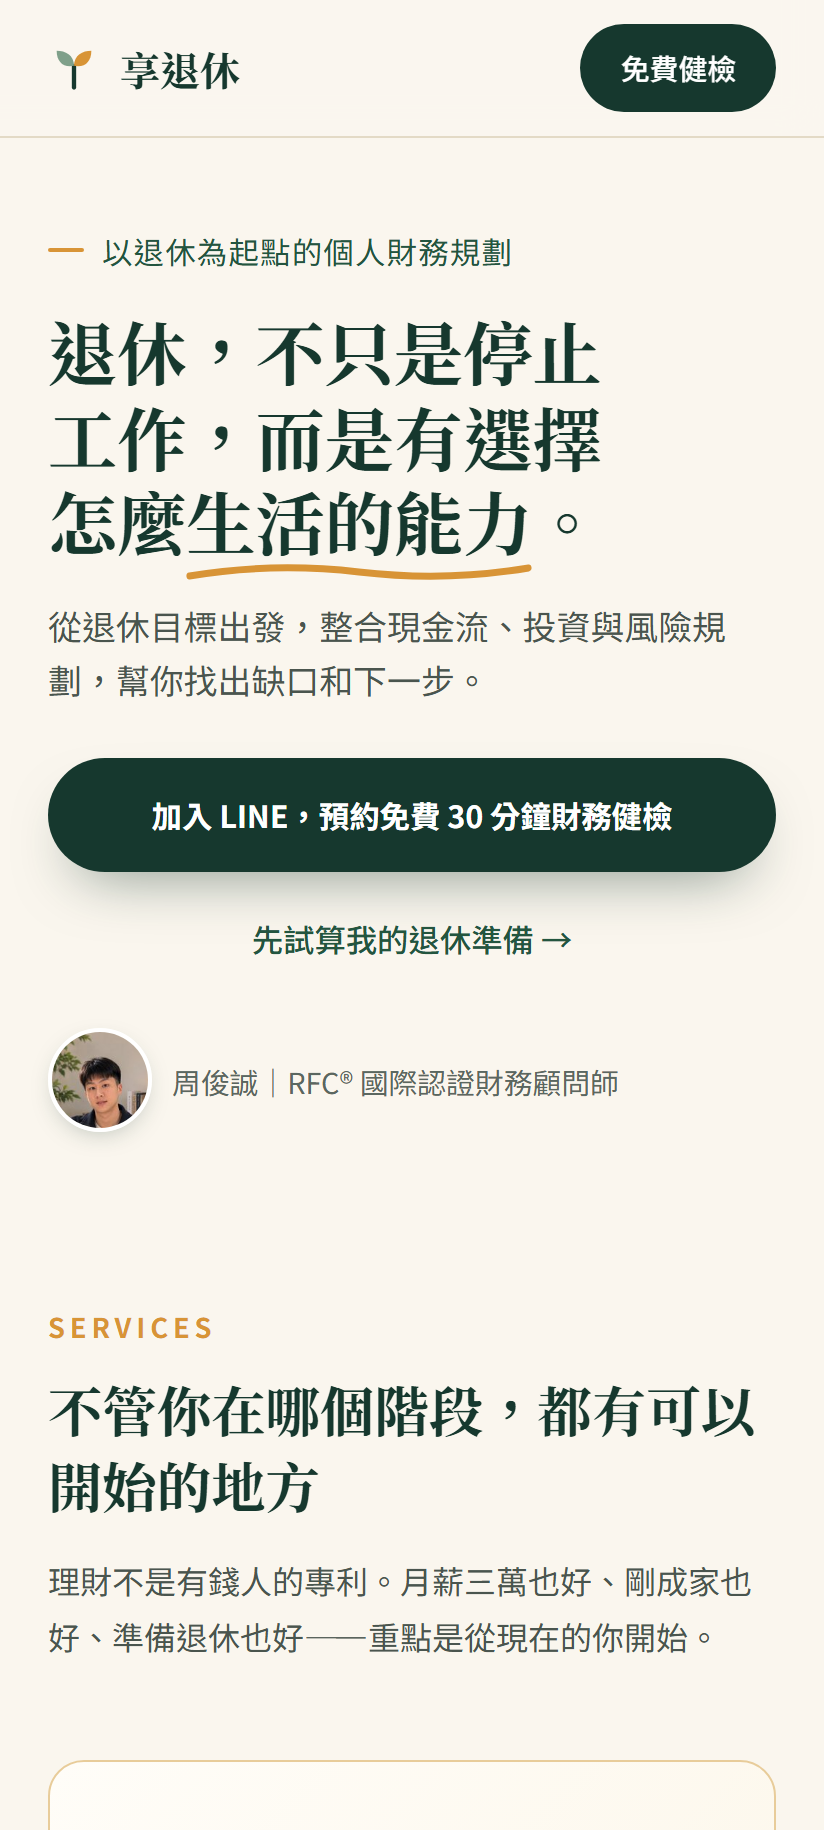
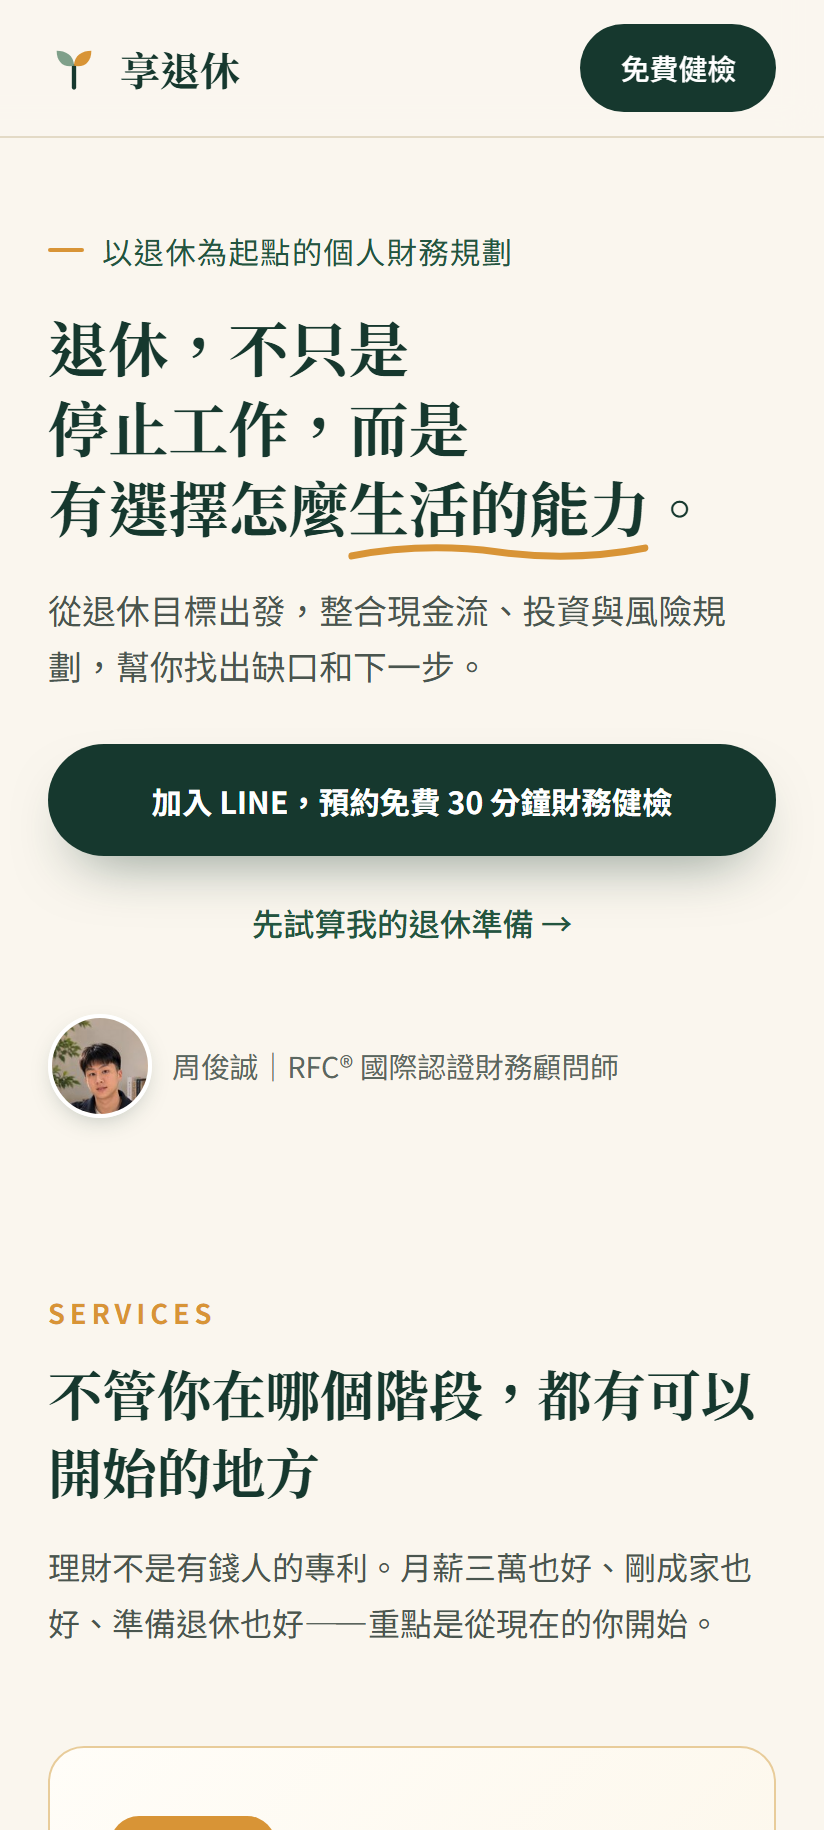
update

diff --git a/css/styles.css b/css/styles.css
@@ -72,7 +72,8 @@ header{
   font-size:clamp(1.9rem, 2.9vw, 2.4rem);line-height:1.3;margin-bottom:22px;
   text-wrap:balance;
 }
-.hero-h1-br{display:inline}
+.hero-br-d{display:inline}
+.hero-br-m{display:none}
 .hl{position:relative;white-space:nowrap}
 .hl svg{position:absolute;left:0;bottom:-6px;width:100%;height:12px}
 .hero p.lead{font-size:1.12rem;color:#4A554E;max-width:32em;margin-bottom:32px}
@@ -428,9 +429,12 @@ footer .disc{max-width:720px;margin-top:10px;line-height:1.7}
   .quiz-detail{grid-template-columns:1fr}
   .quote{flex-basis:100%}        /* 手機:一頁 1 則 */
   .q-nav{display:none}           /* 改用滑動 + 圓點 */
-  /* 手機:主標題放大(約36–40px)、行高緊湊;隱藏桌機強制斷行,標題自然平衡成2–3行 */
-  .hero h1{font-size:clamp(2.05rem,8.4vw,2.3rem);line-height:1.22;margin-bottom:18px}
-  .hero-h1-br{display:none}
+  /* 手機:去標點後排成兩行「退休不只是停止工作／而是有選擇怎麼生活的能力」;
+     長行 12 字,字級略縮(clamp 上限約 27px)以在 320px 起皆不溢出。
+     (桌機以 hero-br-d 斷在「而是」之後,同為兩行)*/
+  .hero h1{font-size:clamp(1.4rem,7vw,1.7rem);line-height:1.32;margin-bottom:18px}
+  .hero-br-d{display:none}
+  .hero-br-m{display:inline}
   .hero p.lead{font-size:1.06rem;line-height:1.6;margin-bottom:26px}
   .hero .btn.btn-lg{padding:15px 18px;font-size:.95rem}
 }

diff --git a/index.html b/index.html
@@ -43,7 +43,7 @@
   <div class="wrap hero-grid">
     <div class="hero-copy">
       <p class="hero-kicker">以退休為起點的個人財務規劃</p>
-      <h1>退休，不只是停止工作，<br class="hero-h1-br">而是有選擇怎麼<span class="hl">生活的能力<svg viewBox="0 0 200 12" preserveAspectRatio="none" aria-hidden="true"><path d="M2 9 Q 50 2, 100 7 T 198 5" fill="none" stroke="#D89436" stroke-width="3.5" stroke-linecap="round"/></svg></span>。</h1>
+      <h1>退休不只是停止工作<br class="hero-br-m">而是<br class="hero-br-d">有選擇怎麼<span class="hl">生活的能力<svg viewBox="0 0 200 12" preserveAspectRatio="none" aria-hidden="true"><path d="M2 9 Q 50 2, 100 7 T 198 5" fill="none" stroke="#D89436" stroke-width="3.5" stroke-linecap="round"/></svg></span></h1>
       <p class="lead">從退休目標出發，整合現金流、投資與風險規劃，幫你找出缺口和下一步。</p>
       <div class="hero-cta">
         <a class="btn btn-lg hero-cta-primary" href="https://line.me/R/ti/p/@453ubihw" target="_blank" rel="noopener" onclick="window.gtag&&gtag('event','click_line_hero')">加入 LINE，預約免費 30 分鐘財務健檢</a>
